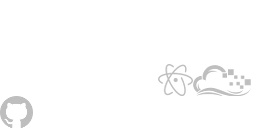
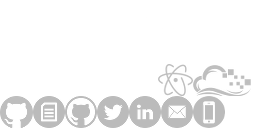
Contact

Changed region(s): [[0.125, 0.75, 0.9062, 1.0]]

diff --git a/index.html b/index.html
@@ -16,7 +16,7 @@
                 <div id="mediaWrapper">
                     <a href="https://github.com/bufutda"><div class="media" id="media-git" title="GitHub"></div></a>
                     <a href="https://twitter.com/bufutda"><div class="media" id="media-twitter" title="Twitter"></div></a>
-                    <a href="https://linkedin.com/in/mitchell-sawatzky"><div class="media" id="media-linkedin" title="LinkedIn"></div></a>
+                    <a href="https://linkedin.com/in/mgsaw"><div class="media" id="media-linkedin" title="LinkedIn"></div></a>
                     <a href="mailto:s@watz.ky"><div class="media" id="media-mail" title="Send Email"></div></a>
                     <br></br>
                     <div id="resumeWrapper">
@@ -127,7 +127,44 @@
             <div class="section" id="contact">
                 <div class="section-component section-header">CONTACT</div>
                 <div class="section-component section-body">
-                    Lorem ipsum dolor sit amet, consectetur adipiscing elit. Integer consequat, sapien eu volutpat hendrerit, orci risus luctus sapien, id cursus ex sem eu augue. Vestibulum rhoncus mollis erat, vel tempus lectus commodo nec. Ut id commodo est. Donec eget ornare enim, vitae tincidunt sapien. Nullam nec cursus metus. Sed at lorem sed nisl tincidunt fringilla in vel lectus. Ut dapibus leo maximus tempor dapibus. In porta sapien felis, tincidunt consequat sapien fringilla quis. Nulla in laoreet massa. Donec ultrices, dui vel pulvinar rhoncus, augue est iaculis tellus, vitae vehicula diam metus ac lacus. Donec consectetur blandit lorem non imperdiet. Donec nulla ligula, pulvinar eu lorem sed, dictum elementum massa. Ut sed dolor sed nisi auctor eleifend sit amet in diam. In sed nunc et nisi euismod pellentesque ut in sapien. Integer tempus orci est, id aliquam sem posuere eget. Sed scelerisque malesuada rutrum.
+                    <div id="contactWrapper" class="centerX">
+                        <div id="contactInfo" class="centerX">
+                            Mitchell Sawatzky<br>
+                            Calgary, AB
+                        </div><br/><br/><br/>
+                        <table class="c-tbl" id="c-tbl-a">
+                            <tbody>
+                                <tr>
+                                    <td><div class="c-tbl-img" id="c-phone"></div></td>
+                                    <td><div class="c-tbl-data">+1 587 437 3328</div></td>
+                                </tr>
+                                <tr>
+                                    <td><div class="c-tbl-img" id="c-linkedin"></div></td>
+                                    <td><div class="c-tbl-data">LinkedIn</div></td>
+                                </tr>
+                                <tr>
+                                    <td><div class="c-tbl-img" id="c-twitter"></div></td>
+                                    <td><div class="c-tbl-data">Twitter</td>
+                                </tr>
+                            </tbody>
+                        </table>
+                        <table class="c-tbl" id="c-tbl-b">
+                            <tbody>
+                                <tr>
+                                    <td><div class="c-tbl-img" id="c-email"></div></td>
+                                    <td><div class="c-tbl-data">s@watz.ky</div></td>
+                                </tr>
+                                <tr>
+                                    <td><div class="c-tbl-img" id="c-github"></div></td>
+                                    <td> <div class="c-tbl-data">GitHub</td>
+                                </tr>
+                                <tr>
+                                    <td><div class="c-tbl-img" id="c-resume"></div></td>
+                                    <td><div class="c-tbl-data">PDF Résumé</td>
+                                </tr>
+                            </tbody>
+                        </table>
+                    </div>
                 </div>
             </div>
             <div class="section" id="footer">

diff --git a/stylesheet.css b/stylesheet.css
@@ -222,3 +222,53 @@ a.betterlink:hover {
 #nameImg {
     padding-left: 6px;
 }
+.c-tbl-data {
+    transition: 1s;
+}
+.c-tbl tr:hover div {
+    filter: sepia(100%);
+    cursor: pointer;
+}
+.c-tbl {
+    display: inline-table;
+    margin-right: 20px;
+    margin-left: 20px;
+}
+.c-tbl td {
+    padding: 5px 10px 5px 10px;
+}
+.c-tbl-img {
+    width: 32px;
+    height: 32px;
+    background-image: url("/media.png");
+    transition: 1s;
+}
+#c-phone {
+    background-position: -193px -96px;
+}
+#c-email {
+    background-position: -161px -96px;
+}
+#c-linkedin {
+    background-position: -129px -96px;
+}
+#c-twitter {
+    background-position: -97px -96px;
+}
+#c-github {
+    background-position: -65px -96px;
+}
+#c-resume {
+    background-position: -33px -96px;
+}
+.centerX {
+    position: absolute;
+    left: 50%;
+    transform: translateX(-50%);
+}
+#contact div.section-body {
+    height: 160px;
+}
+#contactWrapper {
+    min-width: 470px;
+}

diff --git a/mobile.css b/mobile.css
@@ -4,3 +4,13 @@
 .section:hover .section-header {
     letter-spacing: 10px;
 }
+.c-tbl {
+    display: table;
+    margin: initial;
+}
+#contact div.section-body {
+    height: 300px;
+}
+#contactWrapper {
+    min-width: initial;
+}
